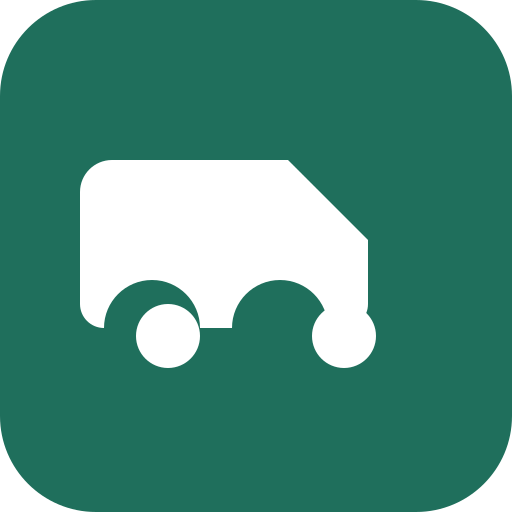
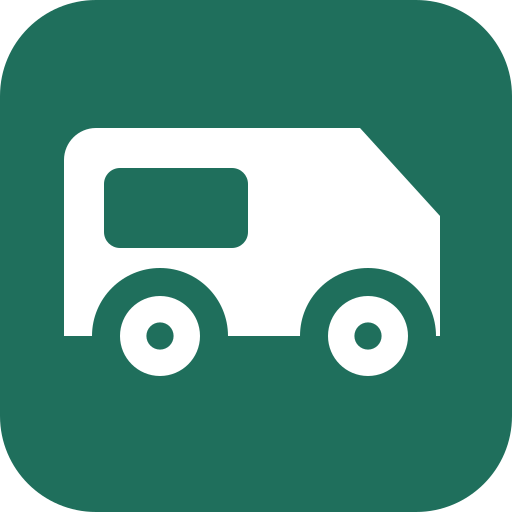
Symbol neu gezeichnet
Die alte Form war geometrisch kaputt: Die Radkaesten sassen bei x=19 und 35,
die Raeder aber bei 21 und 43. Das rechte Rad hing dadurch neben dem Aufbau
in der Luft, waehrend mitten im Fahrzeug eine Delle sass. Dazu waren die
Raeder weiss auf weissem Aufbau und nur dort zu erkennen, wo sie zufaellig
ueber den gruenen Grund ragten, und die Windschutzscheibe wirkte wie ein
Loch. Der Pfad enthielt ausserdem ein wirkungsloses "h-0".

Jetzt eine Alkoven-Silhouette: Der schraege Bug macht sie als Wohnmobil
lesbar und nicht als Lieferwagen. Die Radkaesten sind in der Hintergrundfarbe
gezeichnet, damit sich die Raeder ueberhaupt vom Aufbau abheben -- bei 16
Pixeln war das der Unterschied zwischen einem Fahrzeug und einem weissen
Fleck.

Dieselbe Form steckt im Kopfzeilen-Logo; die beiden PNG-Symbole sind aus dem
SVG neu erzeugt.

Das Manifest verwies fuer "maskable" auf dieselbe Datei wie fuer die normale
Darstellung. Das passt nicht: Das System legt dort seine eigene Maske an und
haette die abgerundeten Ecken angeschnitten. Dafuer gibt es jetzt eine
randlose Fassung mit dem Motiv im sicheren Innenbereich.

Changed region(s): [[0.125, 0.25, 0.875, 0.75], [0.3438, 0.6875, 0.375, 0.7188]]

diff --git a/apps/web/src/components/Icons.tsx b/apps/web/src/components/Icons.tsx
@@ -92,13 +92,17 @@ export const IconTrash = ({ className }: IconProps) => (
 );
 
 export const IconLogo = ({ className }: IconProps) => (
+  // Gleiche Form wie public/favicon.svg – Aenderungen gehoeren in beide.
   <svg viewBox="0 0 64 64" className={className} aria-hidden>
     <rect width="64" height="64" rx="12" fill="var(--accent)" />
-    <path
-      d="M10 38V24a4 4 0 0 1 4-4h22l10 10v8a3 3 0 0 1-3 3h-2a6 6 0 0 0-12 0h-4a6 6 0 0 0-12 0a3 3 0 0 1-3-3Z"
-      fill="var(--accent-contrast)"
-    />
-    <circle cx="21" cy="42" r="4" fill="var(--accent-contrast)" />
-    <circle cx="43" cy="42" r="4" fill="var(--accent-contrast)" />
+    <path d="M8 42V20a4 4 0 0 1 4-4h33l10 11v15Z" fill="var(--accent-contrast)" />
+    <rect x="13" y="21" width="18" height="10" rx="2" fill="var(--accent)" />
+    {/* Radkasten in der Hintergrundfarbe, sonst verschwinden die Raeder im Aufbau. */}
+    <circle cx="20" cy="42" r="8.5" fill="var(--accent)" />
+    <circle cx="46" cy="42" r="8.5" fill="var(--accent)" />
+    <circle cx="20" cy="42" r="5" fill="var(--accent-contrast)" />
+    <circle cx="46" cy="42" r="5" fill="var(--accent-contrast)" />
+    <circle cx="20" cy="42" r="1.7" fill="var(--accent)" />
+    <circle cx="46" cy="42" r="1.7" fill="var(--accent)" />
   </svg>
 );

diff --git a/apps/web/vite.config.ts b/apps/web/vite.config.ts
@@ -23,7 +23,15 @@ export default defineConfig({
         icons: [
           { src: '/icon-192.png', sizes: '192x192', type: 'image/png' },
           { src: '/icon-512.png', sizes: '512x512', type: 'image/png' },
-          { src: '/icon-512.png', sizes: '512x512', type: 'image/png', purpose: 'maskable' },
+          // Eigene Datei fuer "maskable": Das System legt seine eigene Maske
+          // an, deshalb randlos und mit dem Motiv im sicheren Innenbereich –
+          // die abgerundete Kachel wuerde darunter Ecken abschneiden.
+          {
+            src: '/icon-maskable-512.png',
+            sizes: '512x512',
+            type: 'image/png',
+            purpose: 'maskable',
+          },
         ],
       },
       workbox: {
